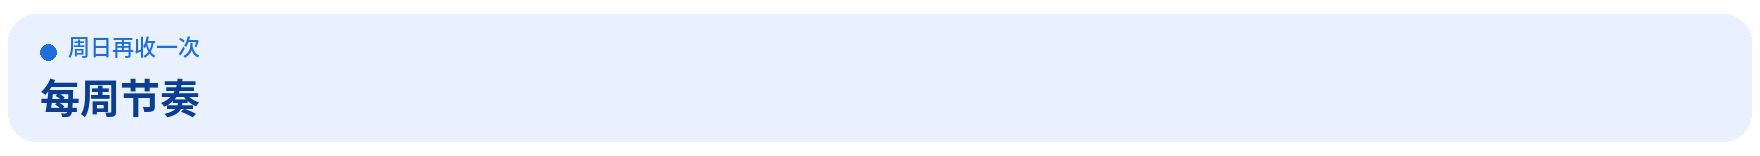
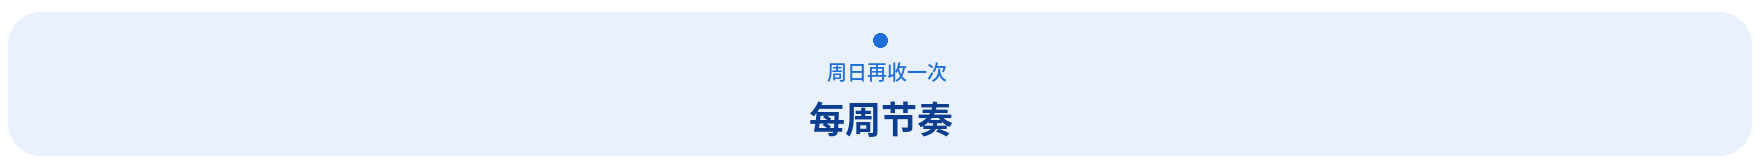
把示意图和首页全部改成居中对齐
卡片里的标题、正文、序号和箭头都放在各自区域的正中。首页用居中容器包住标题、图片、徽章和鸽小包。

diff --git a/README.md b/README.md
@@ -13,32 +13,29 @@
 [![许可](https://img.shields.io/badge/%E8%AE%B8%E5%8F%AF-CC%20BY%204.0-0B3D91?style=flat-square)](#许可)
 
 <table>
-<tr><td align="right"><b>下载</b></td><td align="left">
+<tr><td align="center"><b>下载</b></td><td align="center">
 
 <a href="https://github.com/CageEcho/howtointerviewbetter/archive/refs/heads/main.zip">仓库 ZIP</a>
 
 </td></tr>
-<tr><td align="right"><b>查阅</b></td><td align="left">
+<tr><td align="center"><b>查阅</b></td><td align="center">
 
 <a href="#这套东西是什么">这套东西是什么</a> · <a href="#适合谁">适合谁</a> · <a href="#快速开始">快速开始</a> · <a href="#目录">目录</a> · <a href="book/">正文</a> · <a href="templates/">模板</a> · <a href="examples/示例-某软件公司二面复盘.md">脱敏样例</a>
 
 </td></tr>
-<tr><td align="right"><b>照着做</b></td><td align="left">
+<tr><td align="center"><b>照着做</b></td><td align="center">
 
 <a href="skills/interview-review/README.md">让 AI 照书做复盘（skill）</a> · <a href="skills/interview-review/feishu-setup.md">一键建飞书结构</a> · <a href="#一场面试从投递到复盘">从投递到复盘</a> · <a href="#每周节奏">每周节奏</a> · <a href="templates/复盘文档模板.md">复盘模板</a> · <a href="templates/打分表.md">打分表</a>
 
 </td></tr>
 </table>
 
-</div>
-
-<img src="docs/images/mascot/gxb-hi.png" width="180" align="left" alt="鸽小包：一只白色、圆得像包子的鸽子，在打招呼">
+<img src="docs/images/mascot/gxb-hi.png" width="180" alt="鸽小包：一只白色、圆得像包子的鸽子，在打招呼">
 
 <b>鸽小包</b>在这儿。它是这本手册的吉祥物：一只白色、圆得像包子的鸽子。
 
 往下看：这套方法是什么、两条怎么开始的路、十五个飞书板块、一场面试从投递走到复盘，以及绿红黄三色框什么时候用。
 
-<br clear="left">
 
 <img src="docs/images/divider.png" width="880" alt="">
 
@@ -78,11 +75,10 @@
 
 ## 快速开始
 
-<img src="docs/images/mascot/gxb-yessir.png" width="120" align="left" alt="鸽小包：好的，按这个开始">
+<img src="docs/images/mascot/gxb-yessir.png" width="120" alt="鸽小包：好的，按这个开始">
 
 先把仓库放到本机，后面的命令都在仓库根目录执行。两条路线挑一条。路线 ① 不装任何东西；路线 ② 给还想让助手往飞书里写的人。
 
-<br clear="left">
 
 ```bash
 git clone https://github.com/CageEcho/howtointerviewbetter.git
@@ -135,13 +131,12 @@ cd howtointerviewbetter
 
 ## 安装 Skill
 
-<img src="docs/images/mascot/gxb-heart-eyes.png" width="180" align="left" alt="鸽小包：心心眼，准备按手册写复盘">
+<img src="docs/images/mascot/gxb-heart-eyes.png" width="180" alt="鸽小包：心心眼，准备按手册写复盘">
 
 <a href="skills/interview-review/README.md">让 AI 照书做复盘（skill）</a>
 
 装上之后，把转写链接和逐字稿交给它。它按手册写复盘、打分，并列出要回写的三处。第一次用，对它说「帮我建面试复盘飞书结构」。
 
-<br clear="left">
 
 <img src="docs/images/skill-install.png" alt="Skill 安装位置：Claude Code 放在 .claude/skills，Codex 放在 .agents/skills，其他助手放在各自的 skills 目录或把 SKILL.md 贴进对话。要复制整份 interview-review 目录。" width="880">
 
@@ -513,11 +508,10 @@ flowchart LR
 
 ## 常见问题
 
-<img src="docs/images/mascot/gxb-sleep.png" width="120" align="left" alt="鸽小包睡着了。答案都在下面，不用再问第二遍">
+<img src="docs/images/mascot/gxb-sleep.png" width="120" alt="鸽小包睡着了。答案都在下面，不用再问第二遍">
 
 先看这几条。脚本报错的对照表在 <a href="skills/interview-review/feishu-app-setup.md#三常见报错对照">常见报错对照</a>。
 
-<br clear="left">
 
 - 想零配置拿到结构：用「快速开始 · 路线 ①」复制公开案例。脚本报错先查 [常见报错对照](skills/interview-review/feishu-app-setup.md#三常见报错对照)。
 
@@ -590,11 +584,10 @@ flowchart LR
 
 ## 赞赏
 
-<img src="docs/images/mascot/gxb-offer.png" width="180" align="left" alt="鸽小包抱着一只钱袋">
+<img src="docs/images/mascot/gxb-offer.png" width="180" alt="鸽小包抱着一只钱袋">
 
 如果这套复盘方法帮你拿到了面试或 offer，欢迎扫码请我喝杯咖啡，所有内容永久免费。
 
-<br clear="left">
 
 <img src="docs/images/reward-qrcode.jpg" width="260" alt="赞赏码">
 
@@ -602,8 +595,8 @@ flowchart LR
 
 📮 zsysabre@163.com
 
-<img src="docs/images/mascot/gxb-big-heart.png" width="120" align="left" alt="鸽小包抱着一颗大心">
+<img src="docs/images/mascot/gxb-big-heart.png" width="120" alt="鸽小包抱着一颗大心">
 
 看到这儿就可以去写下一场了。挑一两条先用起来就算数。
 
-<br clear="left">
+</div>
